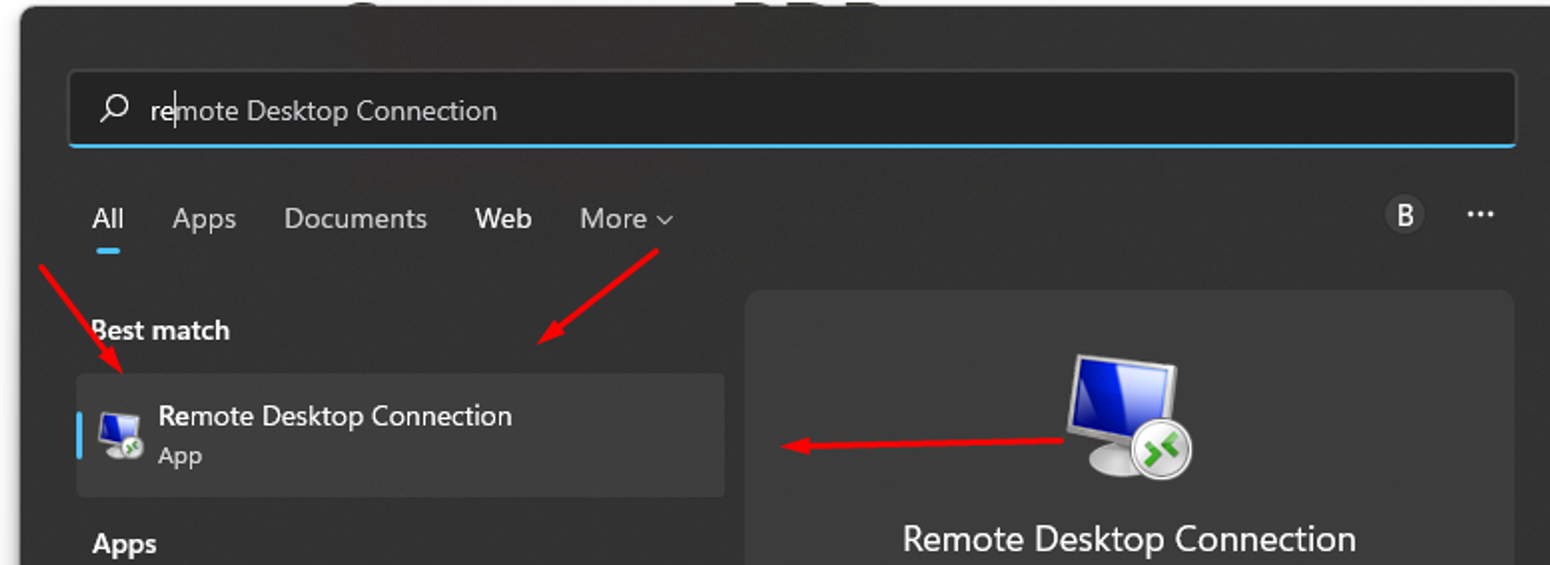
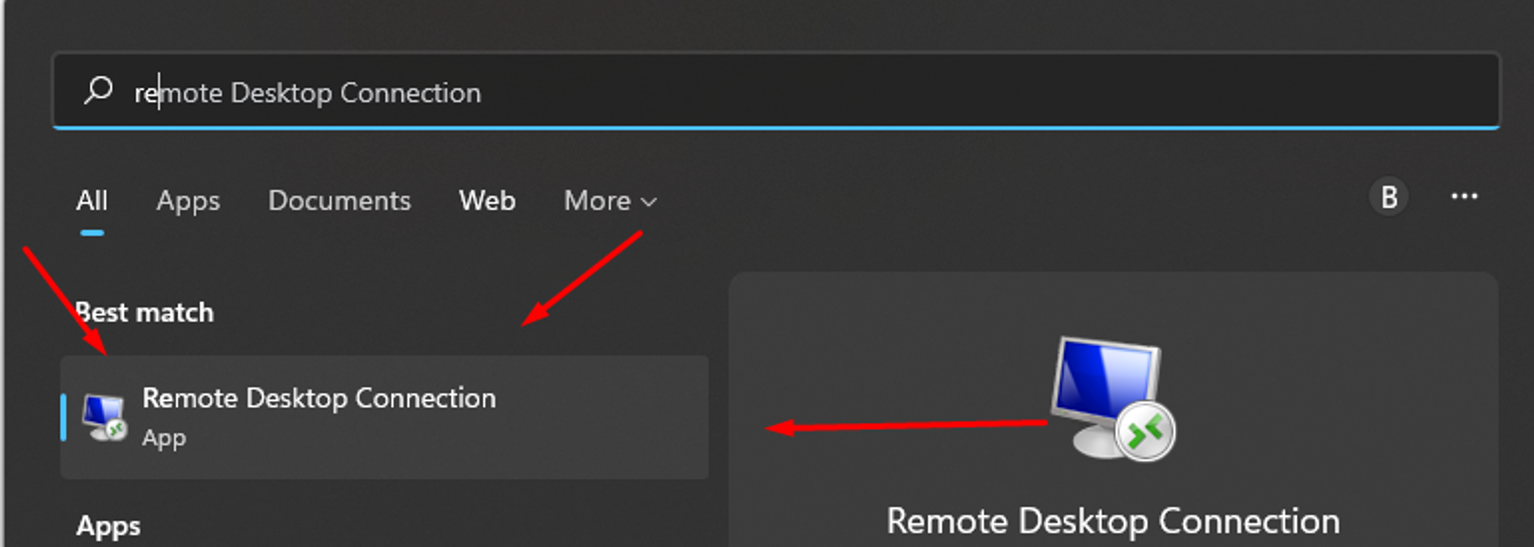
Fix mismatched screenshots: move FXServer file list out of RDP guide, crop RDP images, correct txAdmin button name
Claude-Session: https://claude.ai/code/session_01JQAZwcax7rMhNwXipisBop

diff --git a/ro/game-hosting/fxserver-windows.md b/ro/game-hosting/fxserver-windows.md
@@ -16,6 +16,8 @@ Ai nevoie neapărat de un **cont Cfx.re** ca să legi și să rulezi serverul.
 ### Verifică fișierele
 
 Asigură-te că toate fișierele necesare sunt prezente în directorul extras, ca să eviți erorile la pornire. După ce fișierele sunt descărcate și plasate corect, treci la pornirea serverului.
+
+<figure><img src="../.gitbook/assets/fx-00-files.png" alt="" width="520"><figcaption></figcaption></figure>
 {% endstep %}
 
 {% step %}
@@ -37,7 +39,7 @@ O pagină ar trebui să se deschidă în browser. Asigură-te că PIN-ul este co
 {% step %}
 ### Autentifică-te la Cfx.re
 
-Conectează-te la contul tău Cfx.re în această filă, apoi apasă **Yes, Allow**.
+Conectează-te la contul tău Cfx.re în această filă, apoi apasă **Continue**.
 
 <div align="left"><figure><img src="../.gitbook/assets/fx-03-login.png" alt=""><figcaption></figcaption></figure></div>
 {% endstep %}

diff --git a/en/game-hosting/fxserver-windows.md b/en/game-hosting/fxserver-windows.md
@@ -16,6 +16,8 @@ You need a **Cfx.re account** to link and run the server.
 ### Check the files
 
 Make sure all the necessary files are present in the extracted directory to avoid startup errors. When the files are correctly downloaded and in place, continue with starting the server.
+
+<figure><img src="../.gitbook/assets/fx-00-files.png" alt="" width="520"><figcaption></figcaption></figure>
 {% endstep %}
 
 {% step %}
@@ -37,7 +39,7 @@ A page should open in your browser. Make sure the PIN is filled in and click **L
 {% step %}
 ### Log in to Cfx.re
 
-Log in to your Cfx.re account in this tab, then click **Yes, Allow**.
+Log in to your Cfx.re account in this tab, then click **Continue**.
 
 <div align="left"><figure><img src="../.gitbook/assets/fx-03-login.png" alt=""><figcaption></figcaption></figure></div>
 {% endstep %}

diff --git a/en/vps-dedicated/windows/rdp-connect.md b/en/vps-dedicated/windows/rdp-connect.md
@@ -37,8 +37,6 @@ Fill in the empty field with the IP address of your VPS.
 ### Confirm the connection
 
 After authenticating, click **Yes** in the window that appears.
-
-<figure><img src="../../.gitbook/assets/rdp-04-confirm.png" alt=""><figcaption></figcaption></figure>
 {% endstep %}
 {% endstepper %}
 

diff --git a/ro/vps-dedicated/windows/rdp-connect.md b/ro/vps-dedicated/windows/rdp-connect.md
@@ -37,8 +37,6 @@ Completează câmpul gol cu adresa IP a VPS-ului.
 ### Confirmă conexiunea
 
 După autentificare, apasă **Yes** în fereastra care apare.
-
-<figure><img src="../../.gitbook/assets/rdp-04-confirm.png" alt=""><figcaption></figcaption></figure>
 {% endstep %}
 {% endstepper %}
 
